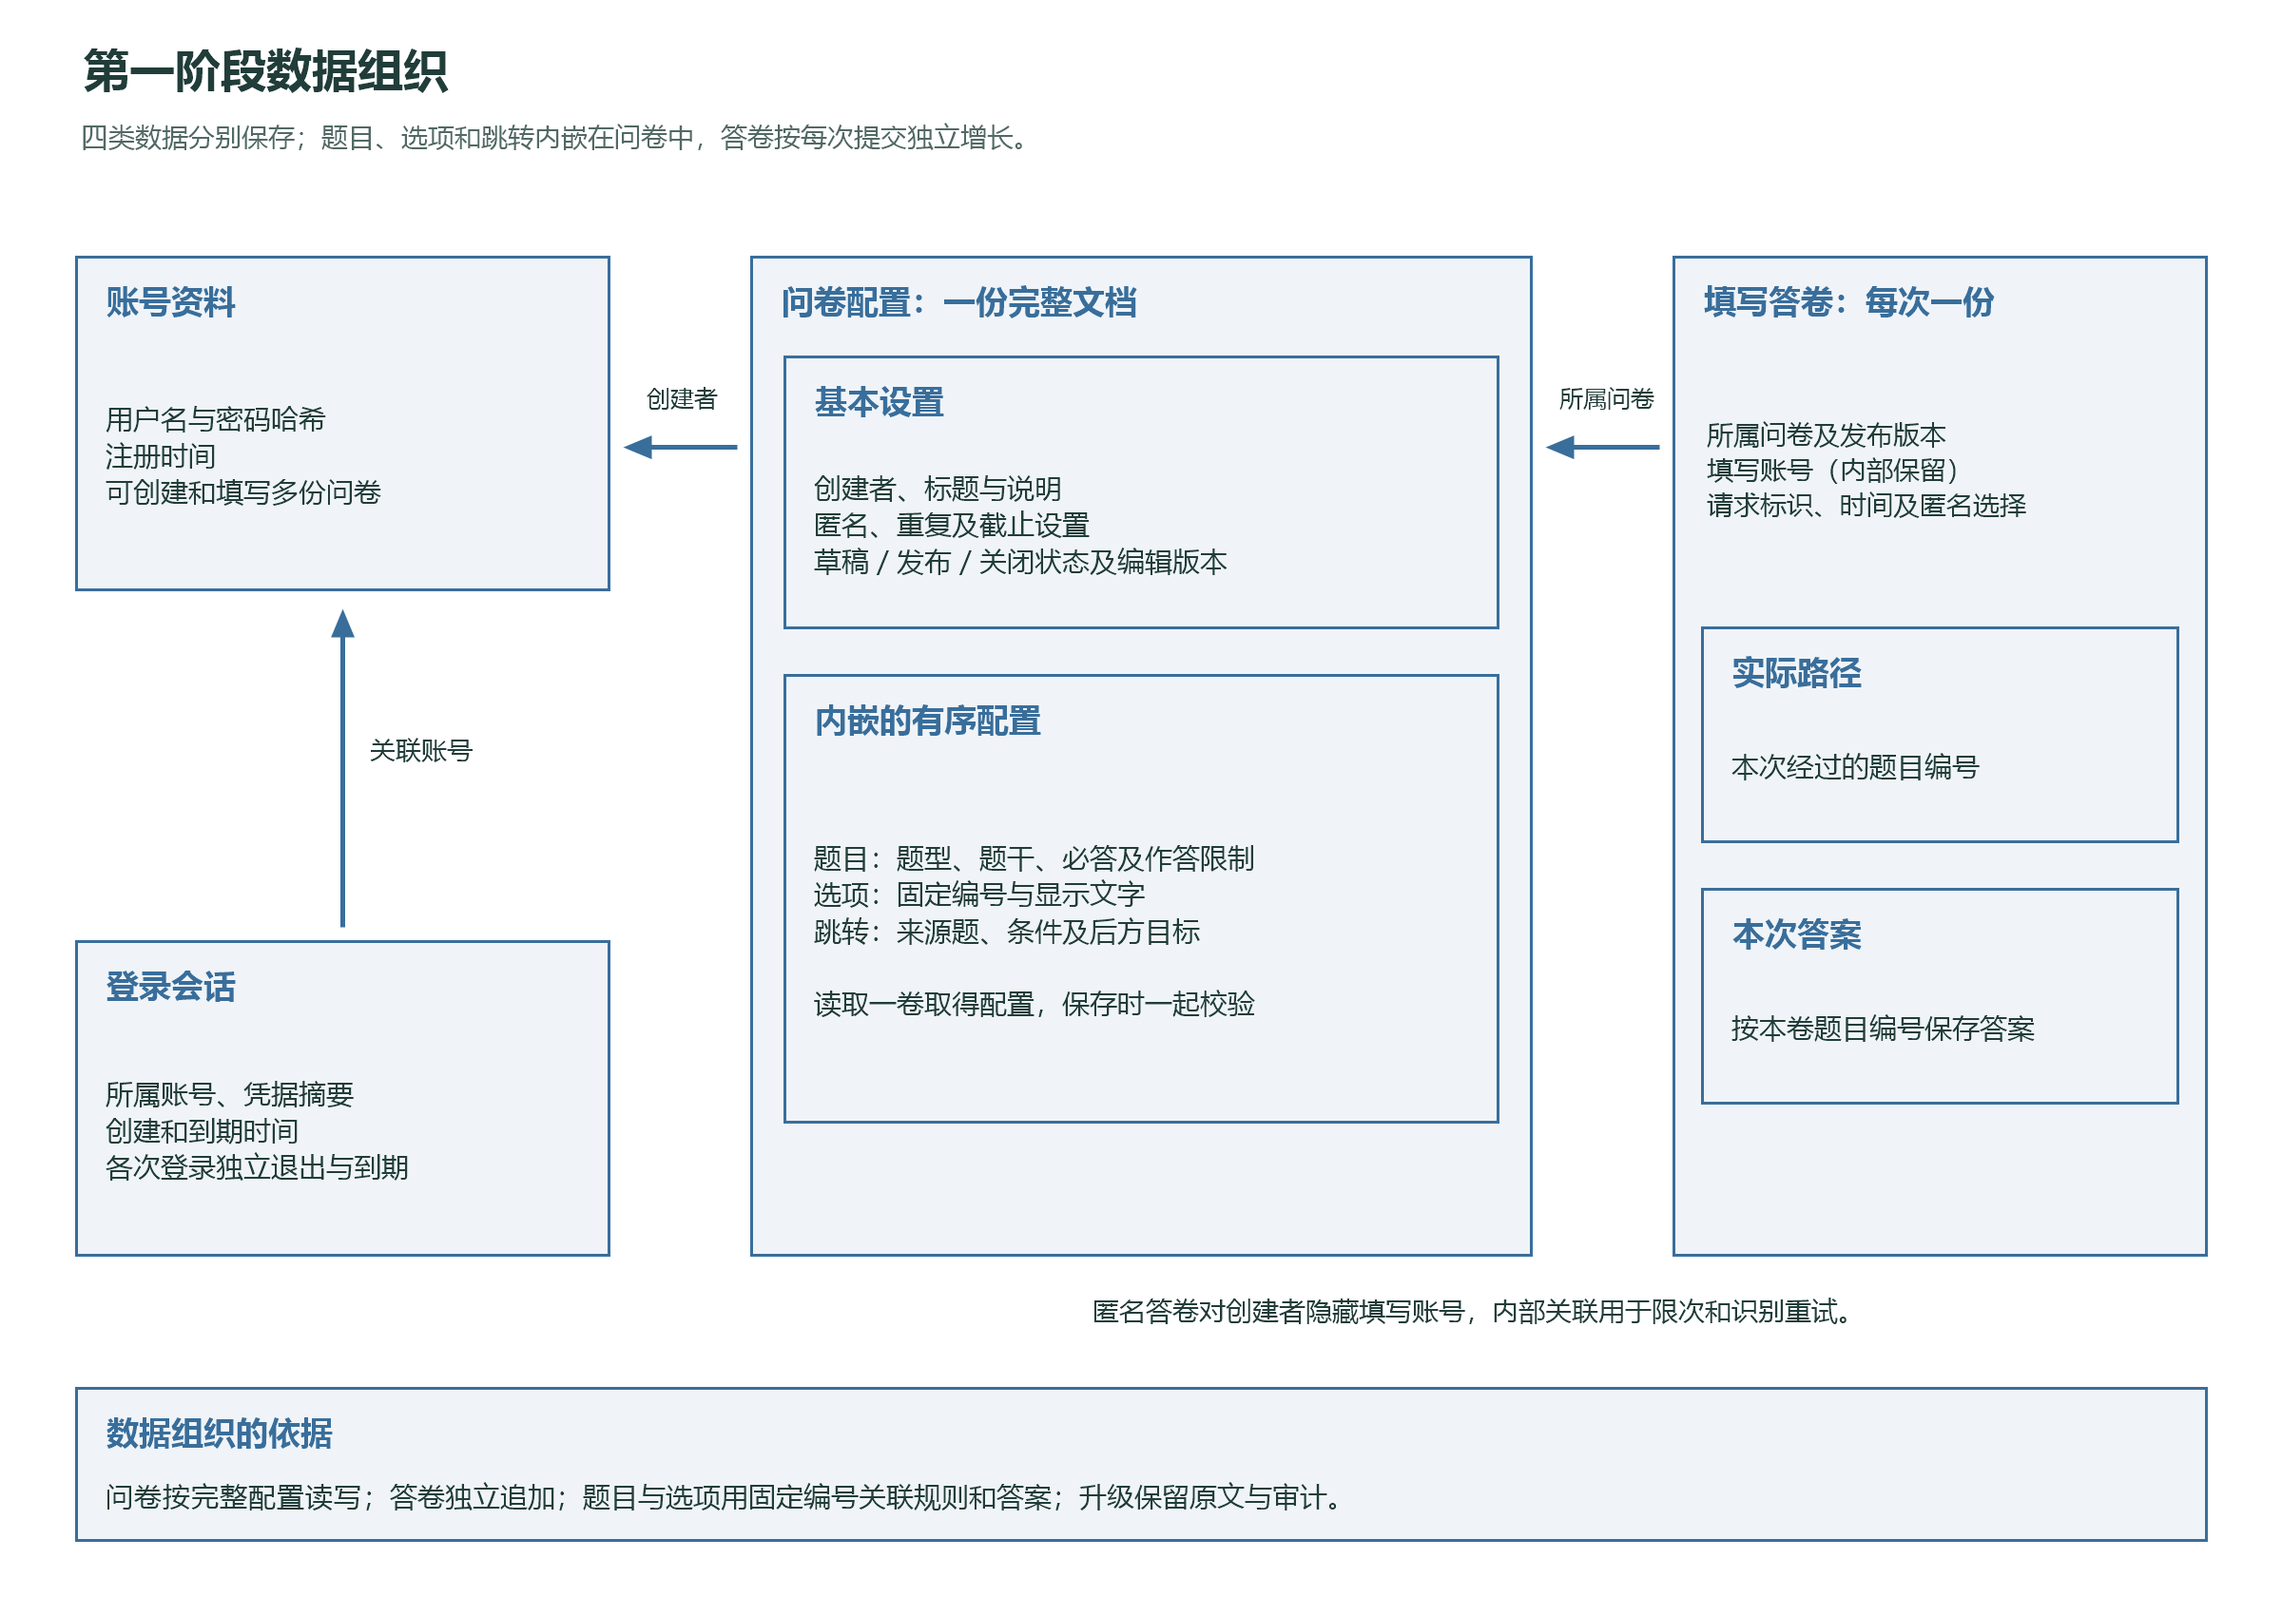
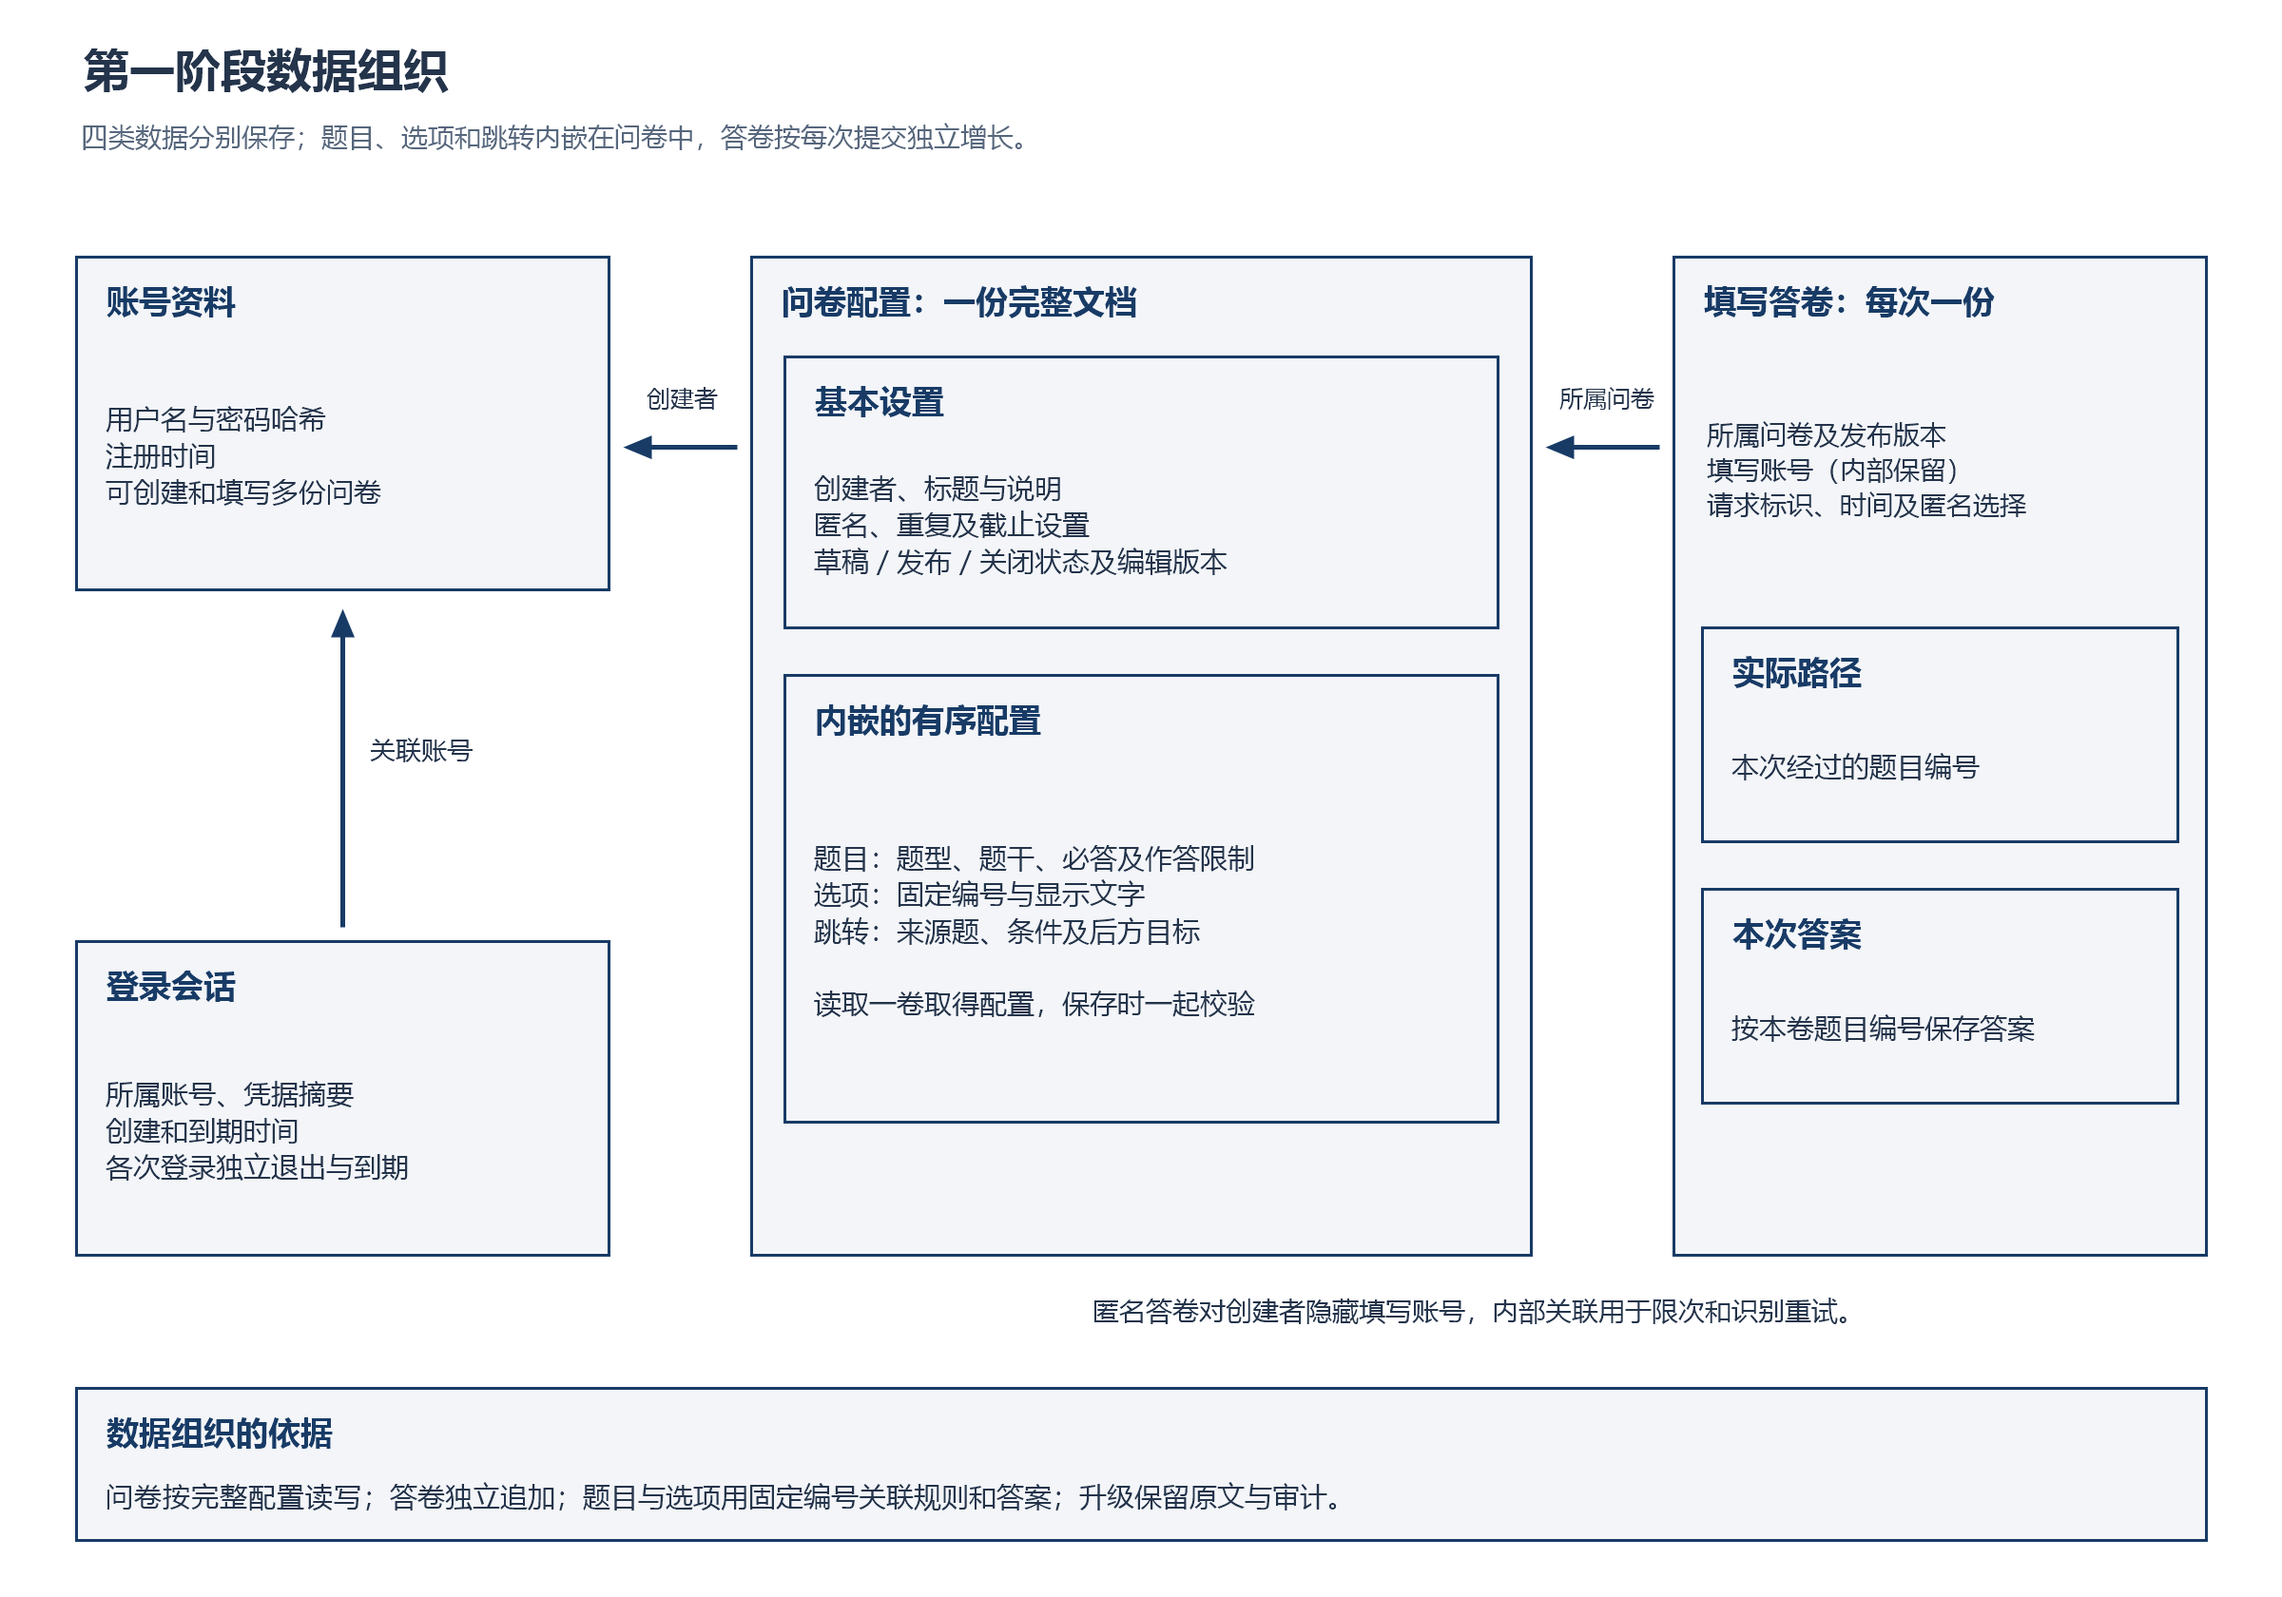
update

diff --git a/README.md b/README.md
@@ -20,7 +20,7 @@
 
 系统由页面交互、业务处理和 MongoDB 存储组成。页面负责问卷编辑、逐题填写和结果展示；后端统一处理登录权限、配置与答案校验、跳转、提交及统计；数据库保存最终配置和答卷。
 
-图中蓝色部分是第一阶段的问卷流程，绿色部分是第二阶段增加的题目版本、题库、共享和跨问卷统计。新增操作共用原账号和题型校验，选题后仍由原填写、跳转与提交流程处理。
+图中浅灰底部分是第一阶段的问卷流程，浅蓝底部分是第二阶段增加的题目版本、题库、共享和跨问卷统计，线条和标题统一使用深蓝色。新增操作共用原账号和题型校验，选题后仍由原填写、跳转与提交流程处理。
 
 独立题目按版本保存，问卷保存选入时的完整内容及来源。源题修订、题库换版或撤销共享都保留已有问卷快照；跨问卷统计再根据来源找到本人问卷中的实际回答。
 
